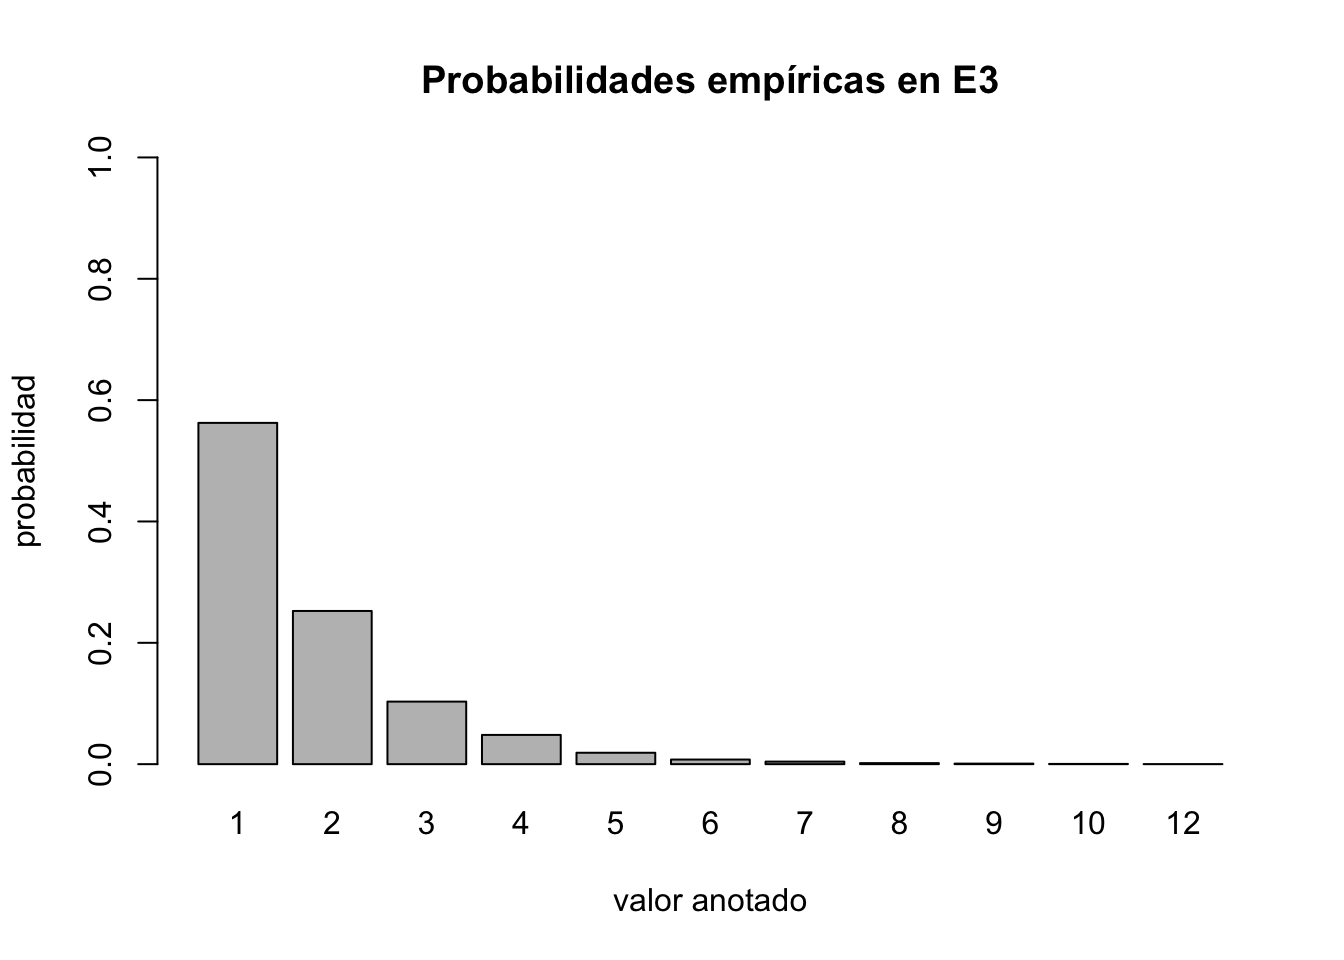
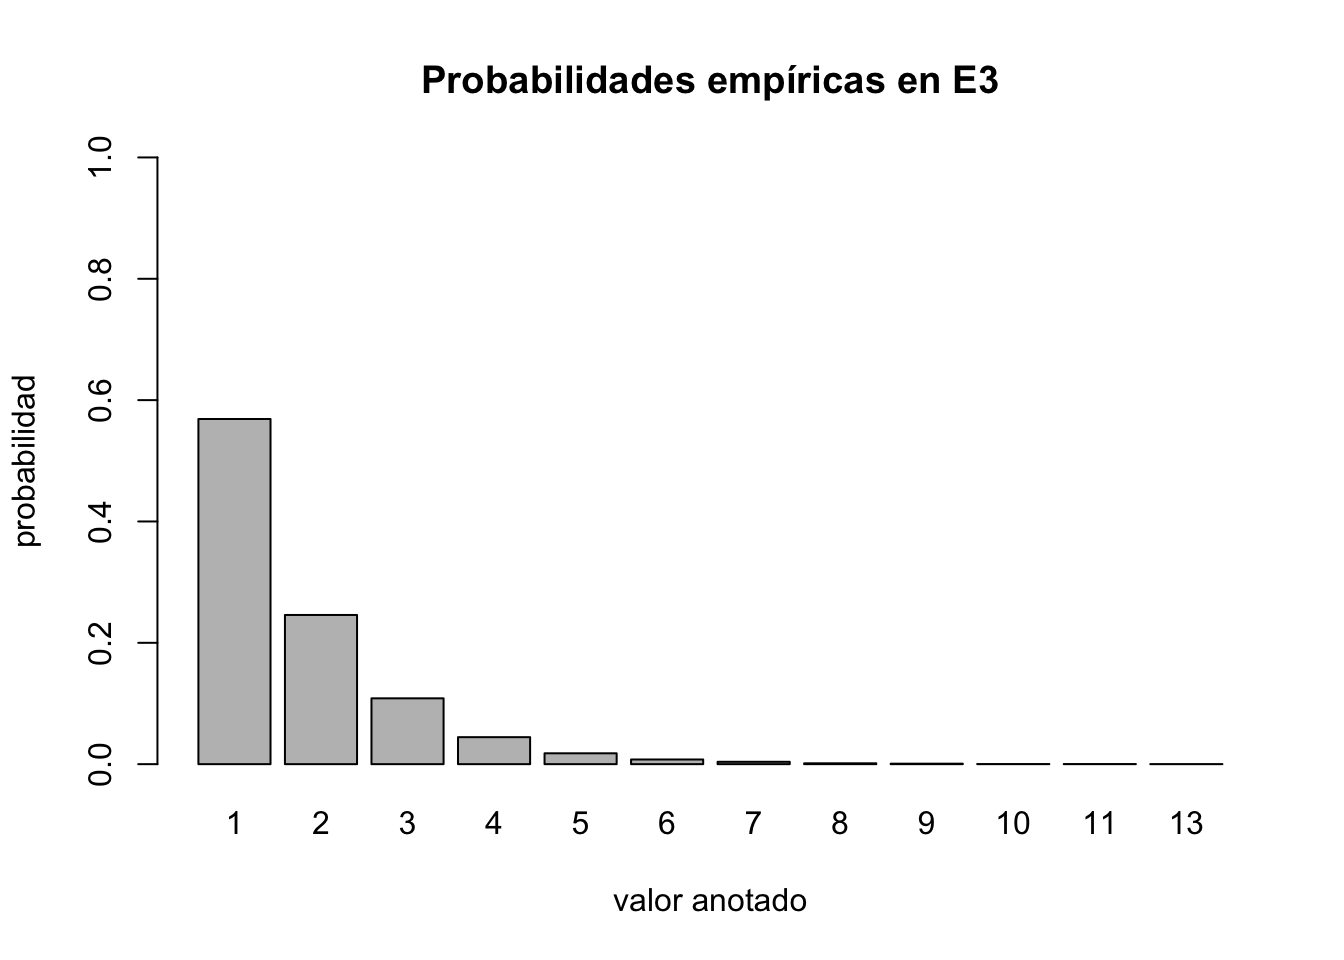
Experimento 3

diff --git a/EC1.html b/EC1.html
@@ -156,7 +156,7 @@ window.Quarto = {
 <div class="cell-output cell-output-stdout">
 <pre><code>X2
    2    3    4 
-2859 5766 1375 </code></pre>
+2900 5713 1387 </code></pre>
 </div>
 </div>
 <p>Las propabilidades empíricas de <span class="math inline">\(\epsilon_2\)</span> con una muestra de 10000 observaciones</p>
@@ -285,8 +285,8 @@ window.Quarto = {
 <div class="sourceCode cell-code" id="cb10"><pre class="sourceCode r code-with-copy"><code class="sourceCode r"><span id="cb10-1"><a href="#cb10-1" aria-hidden="true" tabindex="-1"></a><span class="fu">table</span>(X3)</span></code><button title="Copy to Clipboard" class="code-copy-button"><i class="bi"></i></button></pre></div>
 <div class="cell-output cell-output-stdout">
 <pre><code>X3
-   1    2    3    4    5    6    7    8    9   10   12 
-5625 2525 1031  482  188   76   42   17    9    4    1 </code></pre>
+   1    2    3    4    5    6    7    8    9   10   11   13 
+5689 2459 1085  445  179   77   39   14    8    2    2    1 </code></pre>
 </div>
 </div>
 <p>Las propabilidades empíricas de <span class="math inline">\(\epsilon_3\)</span> con una muestra de 10000 observaciones</p>
@@ -308,7 +308,47 @@ window.Quarto = {
 </section>
 <section id="probalidad-de-teórica-en-epsilon_3" class="level3">
 <h3 class="anchored" data-anchor-id="probalidad-de-teórica-en-epsilon_3">Probalidad de teórica en <span class="math inline">\(\epsilon_3\)</span></h3>
+<p>Para calcular <span class="math inline">\(\mathbb{P}_3(\{x\}) = probabilidad\ de\ sacar\ una\ bola\ azul\ en\ el\ intento\ x\)</span> debemos tener en cuenta que en los intento de <span class="math inline">\(1\ a\ x-1\)</span> salió una bola verde</p>
+<p><span class="math display">\[\mathbb{P}_3(\{x\}) = \mathbb{P}_3(\{Verde\})^{x-1}*\mathbb{P}_3(\{Azul\})\]</span></p>
+<p>Ahora implementemos el código en R para calcular la probabilidad teóríca</p>
+<div class="cell">
+<div class="sourceCode cell-code" id="cb13"><pre class="sourceCode r code-with-copy"><code class="sourceCode r"><span id="cb13-1"><a href="#cb13-1" aria-hidden="true" tabindex="-1"></a>.tE3 <span class="ot">&lt;-</span> <span class="cf">function</span>(x) {</span>
+<span id="cb13-2"><a href="#cb13-2" aria-hidden="true" tabindex="-1"></a>  azules <span class="ot">&lt;-</span> <span class="dv">4</span></span>
+<span id="cb13-3"><a href="#cb13-3" aria-hidden="true" tabindex="-1"></a>  verdes <span class="ot">&lt;-</span> <span class="dv">3</span></span>
+<span id="cb13-4"><a href="#cb13-4" aria-hidden="true" tabindex="-1"></a>  n <span class="ot">&lt;-</span> azules <span class="sc">+</span> verdes</span>
+<span id="cb13-5"><a href="#cb13-5" aria-hidden="true" tabindex="-1"></a>  <span class="fu">return</span> (</span>
+<span id="cb13-6"><a href="#cb13-6" aria-hidden="true" tabindex="-1"></a>    ((verdes<span class="sc">/</span>n)<span class="sc">^</span>(x<span class="dv">-1</span>))<span class="sc">*</span>(azules<span class="sc">/</span>n)</span>
+<span id="cb13-7"><a href="#cb13-7" aria-hidden="true" tabindex="-1"></a>  )</span>
+<span id="cb13-8"><a href="#cb13-8" aria-hidden="true" tabindex="-1"></a>}</span>
+<span id="cb13-9"><a href="#cb13-9" aria-hidden="true" tabindex="-1"></a></span>
+<span id="cb13-10"><a href="#cb13-10" aria-hidden="true" tabindex="-1"></a>tE3 <span class="ot">=</span> <span class="fu">Vectorize</span>(.tE3)</span></code><button title="Copy to Clipboard" class="code-copy-button"><i class="bi"></i></button></pre></div>
+</div>
+<p>Calculemos las probalidades teóricas:</p>
+<div class="cell">
+<div class="sourceCode cell-code" id="cb14"><pre class="sourceCode r code-with-copy"><code class="sourceCode r"><span id="cb14-1"><a href="#cb14-1" aria-hidden="true" tabindex="-1"></a>BP <span class="ot">&lt;-</span> <span class="fu">barplot</span>(<span class="fu">table</span>(X3)<span class="sc">/</span><span class="fu">length</span>(X3),</span>
+<span id="cb14-2"><a href="#cb14-2" aria-hidden="true" tabindex="-1"></a>        <span class="at">ylim =</span> <span class="fu">c</span>(<span class="dv">0</span>, <span class="fl">0.6</span>),</span>
+<span id="cb14-3"><a href="#cb14-3" aria-hidden="true" tabindex="-1"></a>        <span class="at">main =</span> <span class="st">"Probabilidades empíricas vs teóricas en E3"</span>,</span>
+<span id="cb14-4"><a href="#cb14-4" aria-hidden="true" tabindex="-1"></a>        <span class="at">xlab =</span> <span class="st">"valor anotado"</span>,</span>
+<span id="cb14-5"><a href="#cb14-5" aria-hidden="true" tabindex="-1"></a>        <span class="at">ylab =</span> <span class="st">"probabilidad"</span></span>
+<span id="cb14-6"><a href="#cb14-6" aria-hidden="true" tabindex="-1"></a>      )</span>
+<span id="cb14-7"><a href="#cb14-7" aria-hidden="true" tabindex="-1"></a></span>
+<span id="cb14-8"><a href="#cb14-8" aria-hidden="true" tabindex="-1"></a><span class="fu">points</span>(BP, <span class="fu">tE3</span>(<span class="dv">1</span><span class="sc">:</span><span class="fu">length</span>(<span class="fu">table</span>(X3))), <span class="at">col =</span> <span class="st">"blue"</span>,<span class="at">pch =</span> <span class="dv">20</span>)</span>
+<span id="cb14-9"><a href="#cb14-9" aria-hidden="true" tabindex="-1"></a><span class="fu">legend</span>(<span class="st">"topright"</span>, <span class="at">legend =</span> <span class="fu">c</span>(<span class="st">"valor teórico"</span>, <span class="st">"valor empírico"</span>), <span class="at">col =</span> <span class="fu">c</span>(<span class="st">"blue"</span>, <span class="st">"gray"</span>), <span class="at">fill =</span> <span class="fu">c</span>(<span class="cn">NA</span>, <span class="st">"gray"</span>), <span class="at">pch =</span> <span class="fu">c</span>(<span class="dv">20</span>, <span class="cn">NA</span>), <span class="at">border =</span> <span class="fu">c</span>(<span class="cn">NA</span>, <span class="st">"black"</span>), <span class="at">bty =</span> <span class="st">"n"</span>)</span></code><button title="Copy to Clipboard" class="code-copy-button"><i class="bi"></i></button></pre></div>
+<div class="cell-output-display">
+<div>
+<figure class="figure">
+<p><img src="EC1_files/figure-html/unnamed-chunk-12-1.png" class="img-fluid figure-img" width="672"></p>
+</figure>
+</div>
+</div>
+</div>
 </section>
+</section>
+<section id="epsilon_4" class="level2">
+<h2 class="anchored" data-anchor-id="epsilon_4"><span class="math inline">\(\epsilon_4\)</span></h2>
+<p>Extraemos bolas al azar <strong>sin reemplazo</strong>, de una bolsa con 4 bolas azules y 3 bolas verdes indistinguibles salvo por su color, hasta obtener la primera bola azul. Contamos y anotamos el número de veces que se tuvo que extraer bolas.</p>
+<p>Modelaremos el experimento, mediante <span class="math inline">\((\Omega_4, \mathcal{F}_4, \mathbb{P}_4)\)</span> donde:</p>
+<p><span class="math display">\[\Omega_4 = \{1,2,3,4\}\]</span></p>
 </section>
 
 </main>
